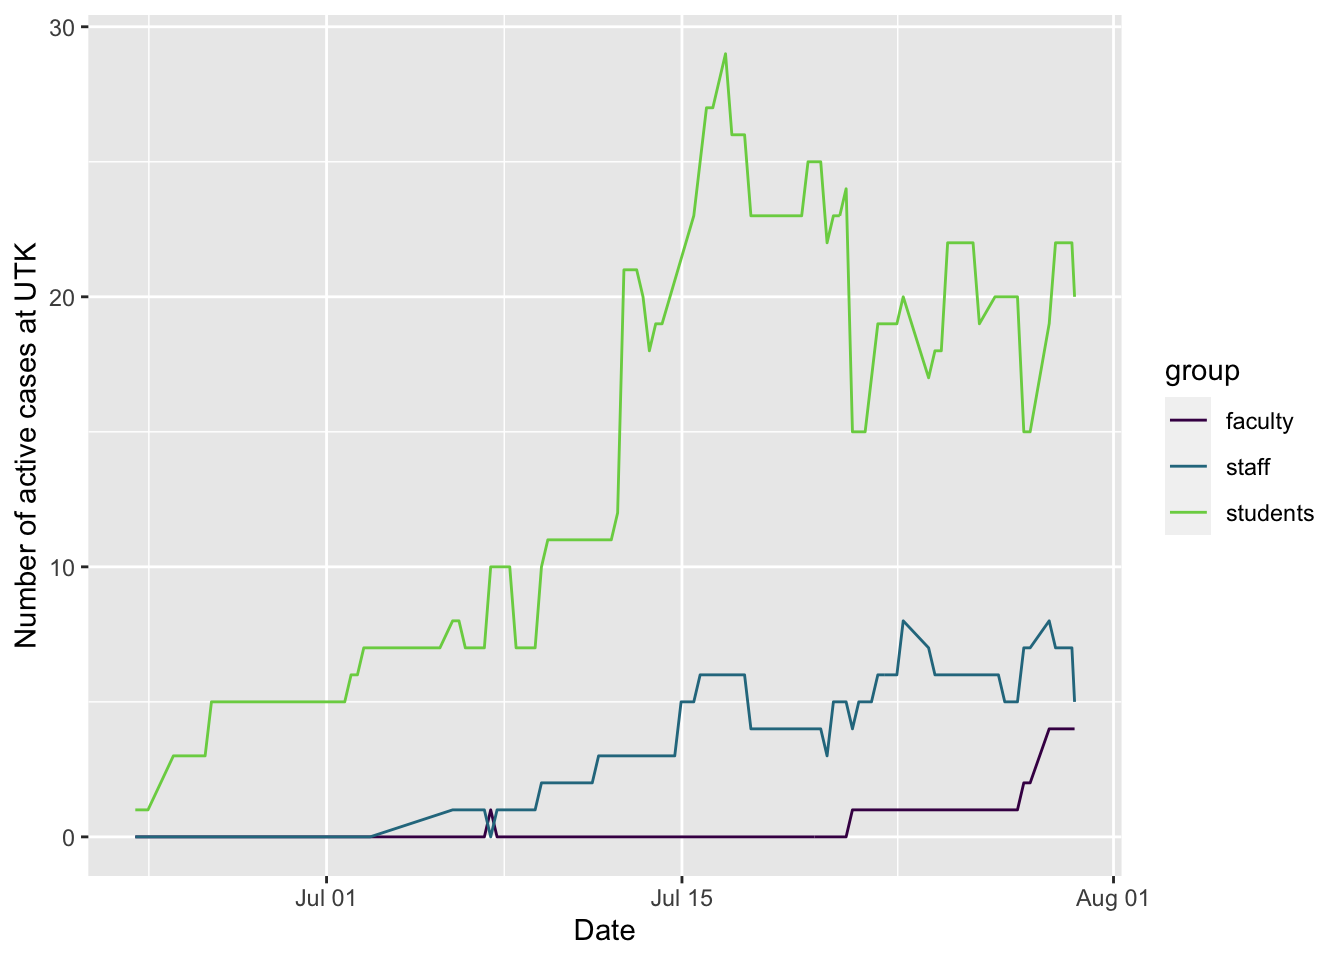
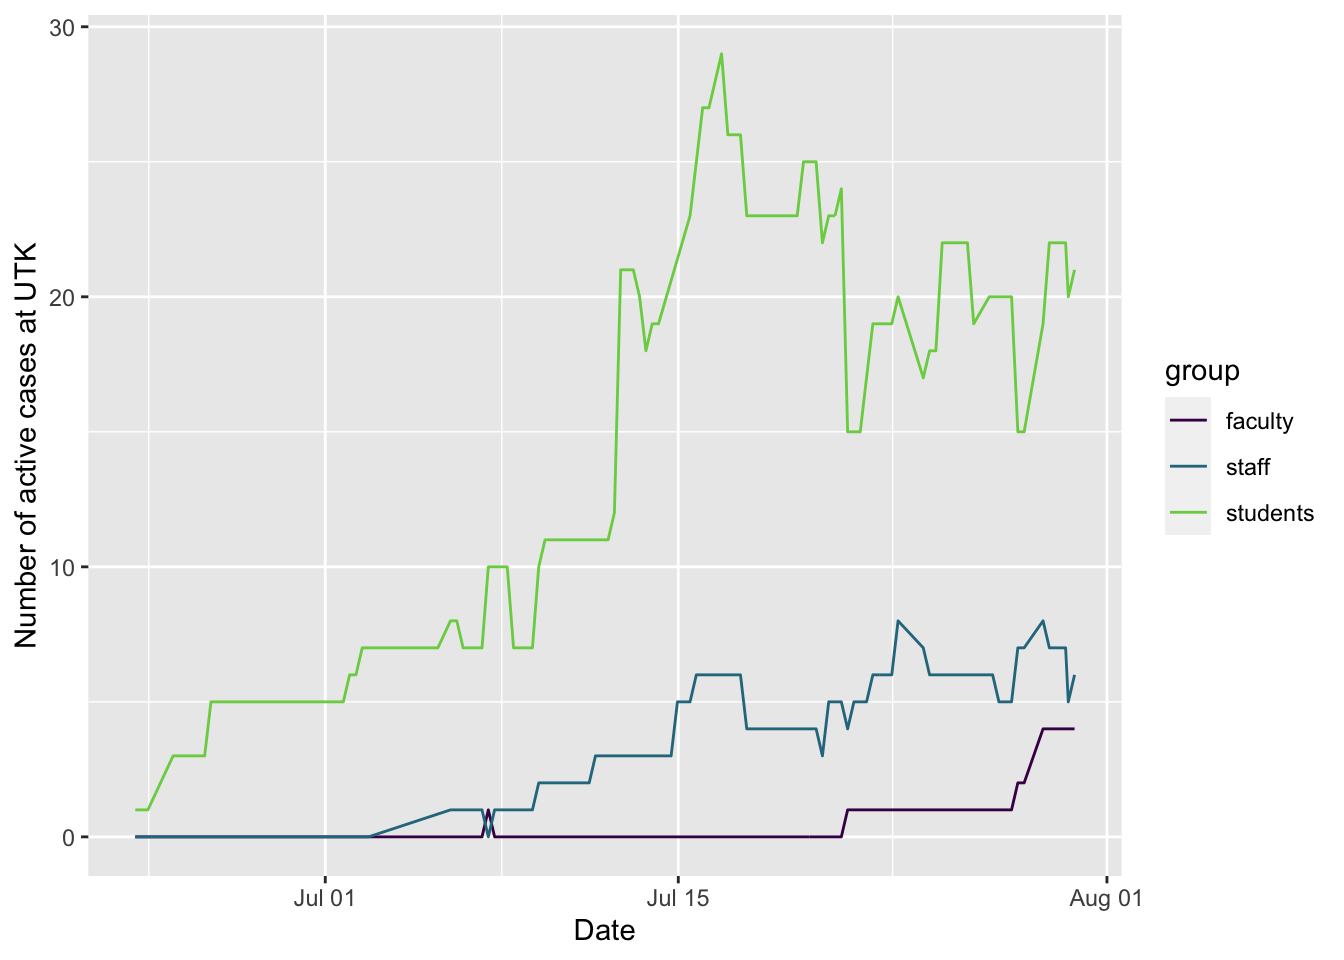
updating site

diff --git a/docs/covid.html b/docs/covid.html
@@ -423,7 +423,7 @@ $(document).ready(function () {
 <li>Info about cases at <a href="#ut">U. of Tennessee, Knoxville</a> (using public information only)</li>
 <li><a href="#webcams">Webcams</a> showing activity at local sites, though not quite at the resolution to point to mask usage or not</li>
 </ul>
-<p>The following plots are created in R using data from <a href="https://covid19datahub.io" class="uri">https://covid19datahub.io</a> (Guidotti, E., Ardia, D., (2020), “COVID-19 Data Hub”, Working paper, doi: 10.13140/RG.2.2.11649.81763), as well as information from Google and the <a href="https://www.tn.gov/health/cedep/ncov/data/downloadable-datasets.html">state of Tennessee dataset page</a> and plotting and analysis using the <code>forecast</code>, <code>ggplot2</code>, <code>reshape2</code>, and <code>dplyr</code> packages. It also uses the <a href="https://github.com/mtna/rds-r">rds-r</a> package from <a href="https://www.richdataservices.com/" class="uri">https://www.richdataservices.com/</a>. Plots created on 2020-07-30 15:53:08. I use <code>ggplot2</code>’s <code>geom_smooth()</code> function for the smoothed regression plots with its default formula, which uses loess smoothing for this many points. This is not based on a model of disease spread or anything similarly sophisticated, just drawing a smooth curve to summarize noisy points (see <a href="https://www.itl.nist.gov/div898/handbook/pmd/section1/pmd144.htm">here</a> for more details).</p>
+<p>The following plots are created in R using data from <a href="https://covid19datahub.io" class="uri">https://covid19datahub.io</a> (Guidotti, E., Ardia, D., (2020), “COVID-19 Data Hub”, Working paper, doi: 10.13140/RG.2.2.11649.81763), as well as information from Google and the <a href="https://www.tn.gov/health/cedep/ncov/data/downloadable-datasets.html">state of Tennessee dataset page</a> and plotting and analysis using the <code>forecast</code>, <code>ggplot2</code>, <code>reshape2</code>, and <code>dplyr</code> packages. It also uses the <a href="https://github.com/mtna/rds-r">rds-r</a> package from <a href="https://www.richdataservices.com/" class="uri">https://www.richdataservices.com/</a>. Plots created on 2020-07-30 17:41:08. I use <code>ggplot2</code>’s <code>geom_smooth()</code> function for the smoothed regression plots with its default formula, which uses loess smoothing for this many points. This is not based on a model of disease spread or anything similarly sophisticated, just drawing a smooth curve to summarize noisy points (see <a href="https://www.itl.nist.gov/div898/handbook/pmd/section1/pmd144.htm">here</a> for more details).</p>
 <h2 id="cases">
 Cases
 </h2>
